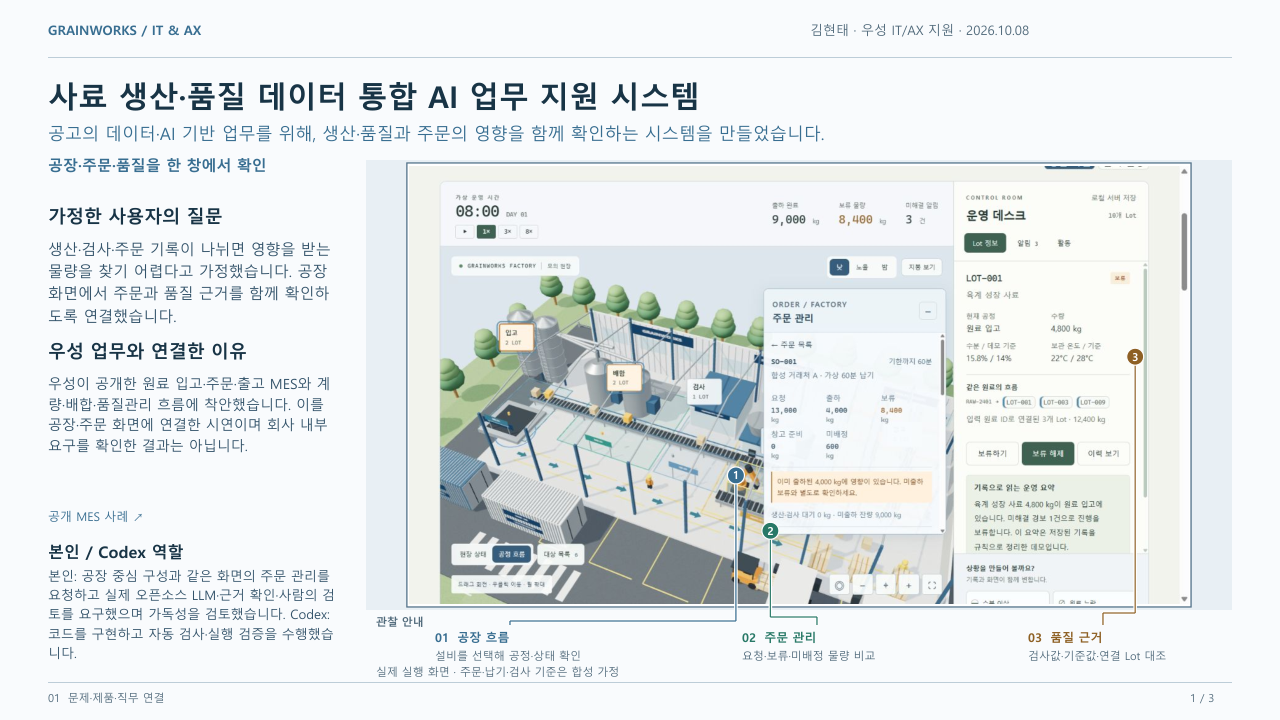
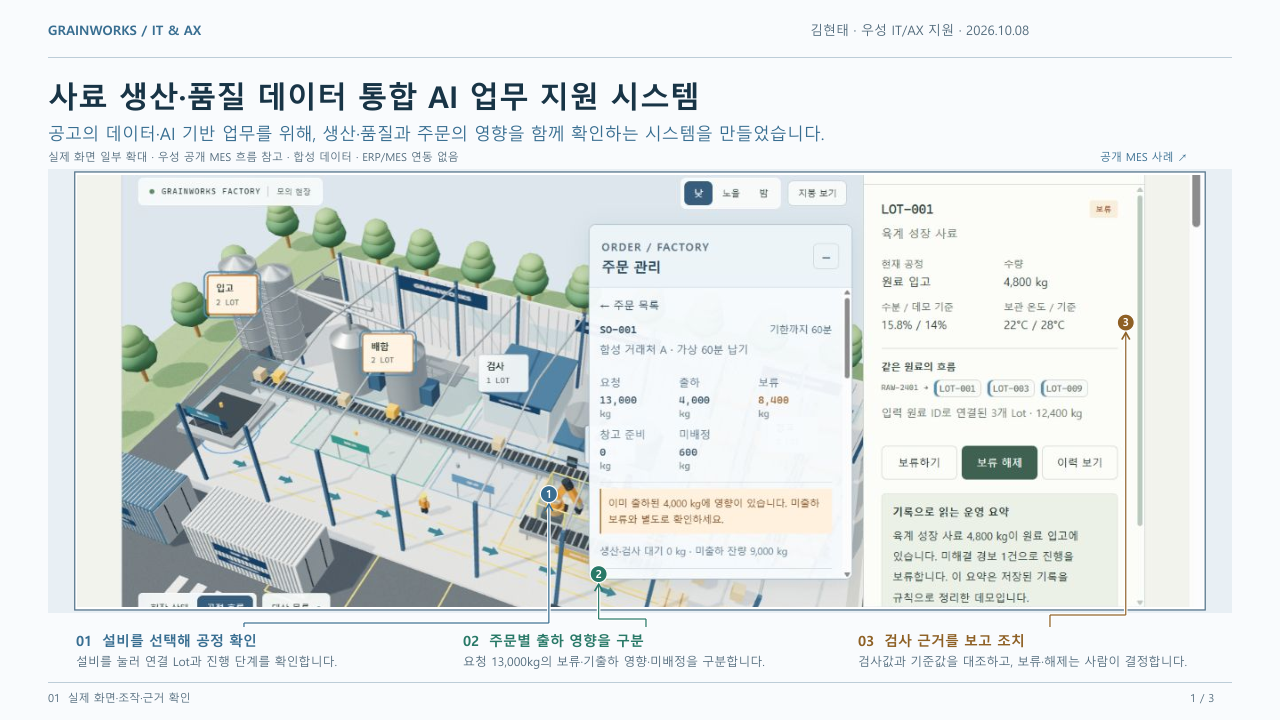
Enlarge portfolio cover screen and add action arrow explanations

diff --git a/docs/portfolio/build_orders_portfolio.py b/docs/portfolio/build_orders_portfolio.py
@@ -14,7 +14,7 @@ from reportlab.lib.styles import ParagraphStyle
 
 ROOT=Path(__file__).resolve().parents[2]
 OUT=ROOT/'docs/portfolio';ORD=ROOT/'docs/orders';EVID=OUT/'evidence'
-PDF=OUT/'김현태_우성_IT_AX_생산품질_주문_AI_포트폴리오_v10.pdf'
+PDF=OUT/'김현태_우성_IT_AX_생산품질_주문_AI_포트폴리오_v11.pdf'
 REPO='https://github.com/Kimhyuntae9665/grainworks-agent'
 MES='https://www.woosungfeed.co.kr/m11.php'
 JD='https://woosung.recruiter.co.kr/career/jobs/128746'
@@ -51,12 +51,15 @@ def build():
   obj.drawOn(c,x,H-t-h);return h
  def link(s,url,x,t,size=12):
   txt(s,x,t,size,BLUE);c.linkURL(url,(x,H-t-size-4,x+pdfmetrics.stringWidth(s,'MG',size),H-t+3),relative=0)
- def pic(file,x,t,w,h,page):
-  im=Image.open(file);scale=min((w-12)/im.width,(h-12)/im.height);iw,ih=im.width*scale,im.height*scale
+ def pic(file,x,t,w,h,page,crop=None):
+  im=Image.open(file);left,top,right,bottom=crop or (0,0,im.width,im.height)
+  cw,ch=right-left,bottom-top;scale=min((w-12)/cw,(h-12)/ch);iw,ih=cw*scale,ch*scale
   ix=x+(w-iw)/2;it=t+(h-ih)/2
   rect(x,t,w,h,'#e9f0f5');rect(ix-3,it-3,iw+6,ih+6,'#ffffff','#52728a')
-  c.drawImage(ImageReader(im),ix,H-it-ih,width=iw,height=ih,mask='auto')
-  frames.append({'page':page,'file':str(file.relative_to(ROOT)),'image':[ix,it,iw,ih],'outerBorder':[ix-3,it-3,iw+6,ih+6],'stroke':'#52728a'})
+  c.saveState();clip=c.beginPath();clip.rect(ix,H-it-ih,iw,ih);c.clipPath(clip,stroke=0,fill=0)
+  c.drawImage(ImageReader(im),ix-left*scale,H-it+top*scale-im.height*scale,width=im.width*scale,height=im.height*scale,mask='auto')
+  c.restoreState()
+  frames.append({'page':page,'file':str(file.relative_to(ROOT)),'image':[ix,it,iw,ih],'sourceCrop':[left,top,right,bottom],'outerBorder':[ix-3,it-3,iw+6,ih+6],'stroke':'#52728a'})
   return ix,it,iw,ih
  def annotate(page,anchor,route,label,number,title,detail,color,heading_size=12,detail_size=11,detail_offset=21,badge=True,kind='screenshot'):
   ax,at=anchor;lx,lt=label;path=[anchor]+route
@@ -73,10 +76,6 @@ def build():
   txt(f'{number:02d}  {title}',lx,lt,heading_size,color,True)
   txt(detail,lx,lt+detail_offset,detail_size,MUTED)
   callouts.append({'page':page,'kind':kind,'number':number,'title':title,'anchor':[ax,at],'leader':path,'label':[lx,lt],'detail':detail})
- def guide(frame,pixel,target,lane,number,title,detail,color):
-  ix,it,iw,ih=frame;ax,at=ix+iw*pixel[0]/1265,it+ih*pixel[1]/712
-  annotate(1,(ax,at),[(ax,lane),(target,lane),(target,625)],(target-75,630),number,title,detail,color,detail_offset=19)
-  callouts[-1]['sourcePixel']=pixel
  def arrow(x,t,x2,t2,color=BLUE):
   c.setStrokeColor(HexColor(color));c.setLineWidth(1.5);c.line(x,H-t,x2,H-t2)
   import math
@@ -87,24 +86,25 @@ def build():
   txt('김현태 · 우성 IT/AX 지원 · 2026.10.08',810,22,13,MUTED)
   rect(48,57,1184,1,LINE);rect(48,682,1184,1,LINE)
   txt(label,48,691,11,MUTED);txt(f'{page} / 3',1190,691,11,MUTED)
- # 01: One large integrated screen, the actual problem and personal responsibility.
- base(1,'01  문제·제품·직무 연결')
+ # 01: Enlarge the real factory/order/quality viewport, with short action guides.
+ base(1,'01  실제 화면·조작·근거 확인')
  txt(b['cover.title'],48,78,30,INK,True)
  txt(b['cover.subtitle'],48,123,17,BLUE)
- txt('공장·주문·품질을 한 창에서 확인',48,156,15,BLUE,True)
- txt('가정한 사용자의 질문',48,205,18,INK,True)
- para(b['cover.problem'],48,240,294,15,limit=117)
- txt('우성 업무와 연결한 이유',48,340,18,INK,True)
- para(b['cover.company'],48,375,294,14,limit=136)
- link('공개 MES 사례 ↗',MES,48,509)
- hero=pic(ORD/'order-hero.png',366,160,866,450,1)
- txt('관찰 안내',376,615,11,MUTED,True)
- guide(hero,(530,503),510,621,1,'공장 흐름','설비를 선택해 공정·상태 확인',BLUE)
- guide(hero,(586,593),817,617,2,'주문 관리','요청·보류·미배정 물량 비교','#287968')
- guide(hero,(1179,310),1103,613,3,'품질 근거','검사값·기준값·연결 Lot 대조',AMBER)
- txt('실제 실행 화면 · 주문·납기·검사 기준은 합성 가정',376,665,11,MUTED)
- txt('본인 / Codex 역할',48,542,16,INK,True)
- para(b['cover.role'],48,568,294,13,limit=100)
+ txt('실제 화면 일부 확대 · 우성 공개 MES 흐름 참고 · 합성 데이터 · ERP/MES 연동 없음',48,150,11,MUTED)
+ link('공개 MES 사례 ↗',MES,1100,150,11)
+ crop=(0,144,1265,630)
+ hero=pic(ORD/'order-hero.png',48,169,1184,444,1,crop=crop)
+ hx,ht,hw,hh=hero
+ for number,pixel,target,lane,label,title,detail,col in [
+  (1,(530,503),244,623,(76,632),'설비를 선택해 공정 확인','설비를 눌러 연결 Lot과 진행 단계를 확인합니다.',BLUE),
+  (2,(586,593),646,619,(463,632),'주문별 출하 영향을 구분','요청 13,000kg의 보류·기출하 영향·미배정을 구분합니다.','#287968'),
+  (3,(1179,310),1050,615,(858,632),'검사 근거를 보고 조치','검사값과 기준값을 대조하고, 보류·해제는 사람이 결정합니다.',AMBER)]:
+  ax,at=hx+hw*(pixel[0]-crop[0])/(crop[2]-crop[0]),ht+hh*(pixel[1]-crop[1])/(crop[3]-crop[1])
+  annotate(1,(ax,at),[(ax,lane),(target,lane),(target,627)],label,number,title,detail,col,heading_size=14,detail_size=12,detail_offset=22)
+  # Arrowhead points toward the selected region; the source pixels remain intact.
+  c.setStrokeColor(HexColor(col));c.setLineWidth(1.6)
+  c.line(ax-4,H-(at+17),ax,H-(at+10));c.line(ax+4,H-(at+17),ax,H-(at+10))
+  callouts[-1].update({'sourcePixel':pixel,'arrowhead':True})
  c.showPage()
  # 02: Inventory allocation is an inclusion relation; quality changes propagate separately.
  base(2,'02  주문 연결·상태 구분·입력 변경 검증')
@@ -162,6 +162,7 @@ def build():
   annotate(3,(anchor_x,386),[(anchor_x,403),(center,403),(center,414)],(card_x+12,419),number,title,detail,col,badge=False,kind='architecture')
  txt('AI를 붙인 뒤, 실제 오류를 확인했습니다.',48,474,18,INK,True)
  para(b['agent.failure'],48,509,558,15,limit=95)
+ txt('본인: 방향·요구사항·가독성 검토 / Codex: 구현·자동 검사·실행 검증',48,597,11,MUTED)
  para(b['agent.validation'],48,613,558,13.5,limit=54)
  txt('업무 지원 기능과 현재 경계',654,474,18,INK,True)
  txt('주문 질의 · CSV 단위 대조 · 문서 근거 · 인수인계 · 설비 비교',654,510,13,BLUE,True)

diff --git a/docs/portfolio/README.md b/docs/portfolio/README.md
@@ -1,21 +1,22 @@
-# 우성 IT/AX 생산·품질·주문 AI 포트폴리오 · v10
+# 우성 IT/AX 생산·품질·주문 AI 포트폴리오 · v11
 
 [최신 3페이지 PDF](portfolio.pdf) · [편집 소스](build_orders_portfolio.py) · [본문](final-orders.txt) · [PDF 검수](pdf-qa.json) · [구현·실행·AI 검증](../orders/README.md)
 
 | 요구 | 반영 페이지 | 결과 |
 |---|---|---|
 | 공장·주문을 같은 화면에서 관리 | 1쪽 큰 실제 화면 | 반영 |
-| 관찰 안내를 작게 아래에 배치하고 화면과 선으로 연결 | 1쪽 01 공장 흐름·02 주문 관리·03 품질 근거 | 반영 |
+| 첫 장 왼쪽 긴 문단을 지우고 화면을 확대 | 1쪽 공장·주문·품질 영역 확대, 역할은 3쪽 한 줄로 이동 | 반영 |
+| 화면에서 화살표를 뽑아 조작과 확인을 설명 | 1쪽 설비 선택·출하 영향 구분·검사 근거와 수동 조치 | 반영 |
 | 모든 장의 여백을 활용해 핵심 요소를 친절하게 설명 | 2쪽 숫자 3개·3쪽 기술 역할 4개에 연결선·한 줄 설명 | 반영 |
 | 공고 업무와 만든 기능을 본문에서 직접 연결 | 1·2·3쪽 제목 아래 연결 문장 | 반영 |
-| 회사 업무와 프로젝트 문제 연결 | 1쪽 공개 MES 대응·문제 가정 | 반영 |
+| 회사 업무와 프로젝트 연결 | 1쪽 직무 연결 문장·공개 MES 참고 캡션, 시연 가정은 README 설명 | 반영 |
 | 주문·품질·출하 물량 구분 | 2쪽 SO-001 사례·확대 캡처 | 반영 |
 | 입력 변경에 따라 결과 변화 | 2쪽 배정 전후 수량·재고 불변 | 반영 |
 | 실제 오픈소스 LLM·Agent 어필 | 3쪽 큰 로고 흐름·실제 호출 기록 | 반영 |
-| 본인 기여와 AI 활용 경계 | 1쪽 본인/Codex 역할·3쪽 실제 오류 | 반영 |
+| 본인 기여와 AI 활용 경계 | 3쪽 본인/Codex 역할 한 줄·실제 오류 | 반영 |
 | 글씨·화면 경계 | 전체·100% 렌더링, 네 변 테두리 | 반영 |
 
-1. 생산·검사·주문 기록이 나뉘면 영향을 받는 물량을 찾기 어렵다는 시연 가정에서 출발한다. 공개 MES 흐름과 구현을 대응시키고 공장·주문·품질 화면을 크게 배치한다.
+1. 생산·검사·주문 기록이 나뉘면 영향을 받는 물량을 찾기 어렵다는 시연 가정에서 출발한다. 첫 장은 긴 회사 설명을 덜어내고 실제 화면의 공장·주문·검사 영역을 확대했다. 전체 화면의 일부 확대임을 캡션에 밝히고, 아래 세 항목을 해당 요소에 화살표로 연결했다.
 2. SO-001의 현재 보류 8,400kg, 기출하 영향 4,000kg, 미배정 600kg을 구분한다. 배정을 4,800→3,000kg으로 바꾼 결과를 보여주되 품질 해제나 재고 감소로 설명하지 않는다.
 3. 실제 Qwen3 4B/Ollama/LangGraph 연결과 첫 응답의 잘못된 보류 분류를 보완한 사례를 설명한다. 도구 계산과 AI 서술, 단일 사례와 일반 정확도를 구분한다.
 
@@ -31,12 +32,14 @@ python -X utf8 docs/portfolio/build_orders_portfolio.py
 
 빌더는 1280×720의 3페이지, 버전 PDF·최신 별칭 portfolio.pdf, 전체·100% 미리보기, 링크·글꼴·테두리 좌표 검수 JSON을 만든다. 생성만으로 육안 검수가 완료되는 것은 아니다.
 
-최종 검수는 한국어 텍스트 추출, 3페이지, 본문 경계·겹침, 모든 스크린샷의 바깥 네 변·캡션 분리, 연결선 도착점과 안내의 대응, 색 대비와 최종 렌더링 QR 디코딩을 포함한다. 기존 본문 윤문은 light·변경률 2.27%·게이트 exit 0이었다. v9 연결 문장과 v10 관찰 안내는 별도로 light 경로를 실행해 검증했다. 의미 보존은 원문과 별도로 대조했다.
+최종 검수는 한국어 텍스트 추출, 3페이지, 본문 경계·겹침, 모든 스크린샷의 바깥 네 변·캡션 분리, 연결선 도착점과 안내의 대응, 색 대비와 최종 렌더링 QR 디코딩을 포함한다. 기존 본문 윤문은 light·변경률 2.27%·게이트 exit 0이었다. v9 연결 문장과 v10 관찰 안내는 별도로 light 경로를 실행해 검증했다. v11의 짧은 설명과 역할 문장은 light·변경률 0%·게이트 exit 0으로 유지했다. 의미 보존은 원문과 별도로 대조했다.
 
 기술 로고의 출처·사용 조건은 [flow](flow/README.md)와 [자산 원장](assets-v8.json)에 있다. Qwen 로고는 공식 조직의 모델 계열 기호이며 후원·회사 연동을 의미하지 않는다.
 
-이전 버전은 당시 물류/공장 중심 구성 이력이다. 최신 자료는 portfolio.pdf와 이름에 생산품질_주문_AI_포트폴리오_v10이 포함된 파일이다. 화면 원본과 승인된 로고 흐름도를 유지하고 PDF 위에 설명을 추가했다.
+이전 버전은 당시 구성 이력이다. 최신 자료는 portfolio.pdf와 이름에 생산품질_주문_AI_포트폴리오_v11이 포함된 파일이다. 화면 원본과 승인된 로고 흐름도를 유지하고 PDF 위에 설명을 추가했다. 첫 장의 화면 확대는 PDF의 표시 영역 조정이며 원본 PNG는 수정하지 않았다.
 
 v10은 1쪽의 조작·확인 안내 3개, 2쪽의 보류·기출하 영향·미배정 설명 3개, 3쪽의 기술 역할 설명 4개를 각각 연결선으로 대응시킨다. 2쪽은 미배정 설명을 왼쪽 여백으로 연결해 선 교차를 줄였고, 남은 여백의 선 교차에는 흰색 밑선을 적용해 색별 경로를 구분한다. 주요 UI 글자·버튼은 가리지 않는다.
+
+v11은 첫 장의 긴 문제·회사·역할 문단을 화면 설명으로 대체했다. 실제 화면을 크게 유지하면서 설비를 선택하는 위치, 주문별 물량을 구분하는 위치, 검사값을 대조하고 수동 조치하는 위치를 안내한다. 2쪽의 수량 검증과 3쪽의 오픈소스 AI 흐름·한계 설명은 유지했다.
 
 3쪽 Python API 설명은 실제 `order_tools.py`와 `agent_backend.py`를 대조했다. 주문 수량 계산은 JS 상태 엔진이 수행하고 Python API는 주문·Lot 기록과 계산 결과를 조회한다. LangGraph는 모델이 선택한 허용 도구를 호출하며 Ollama는 Qwen을 로컬 실행한다. 모델의 자유 서술은 사람의 근거 대조가 필요하다.

diff --git a/README.md b/README.md
@@ -35,7 +35,7 @@ Qwen 모델이 Ollama의 native `tool_calls`를 반환하면 LangGraph가 허용
 
 ## 포트폴리오와 실행 근거
 
-- [3페이지 포트폴리오](docs/portfolio/portfolio.pdf) - v10: 모든 장에 화면·수치·기술 역할을 설명하는 연결선, 배정 전후·실제 LLM 구조와 오류 검증
+- [3페이지 포트폴리오](docs/portfolio/portfolio.pdf) - v11: 첫 장 실제 화면 확대와 화살표 설명, 배정 전후·실제 LLM 구조와 오류 검증
 - [주문 연결 실행·검수 기록](docs/orders/README.md)
 - [새 설비 조회·정지 비교·품질 영향의 실제 모델 기록](docs/factory/README.md)
 - [실제 모델 평가 기록](docs/evaluation/live-model.json) · [평가 설명](docs/evaluation/README.md)
